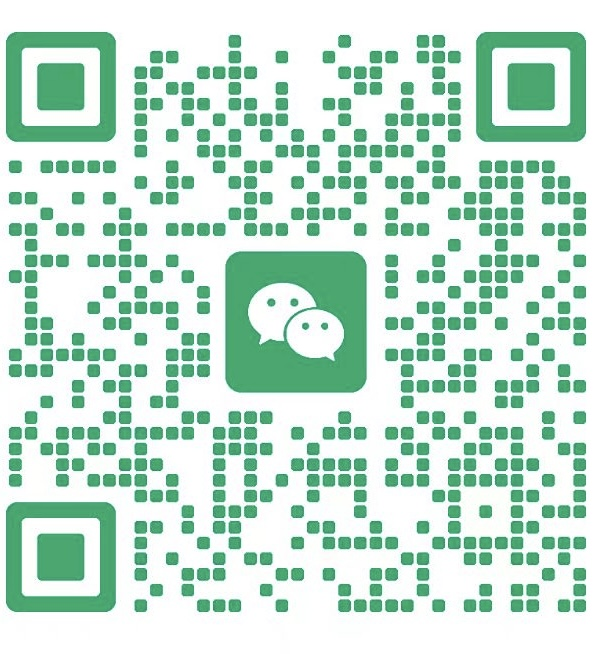
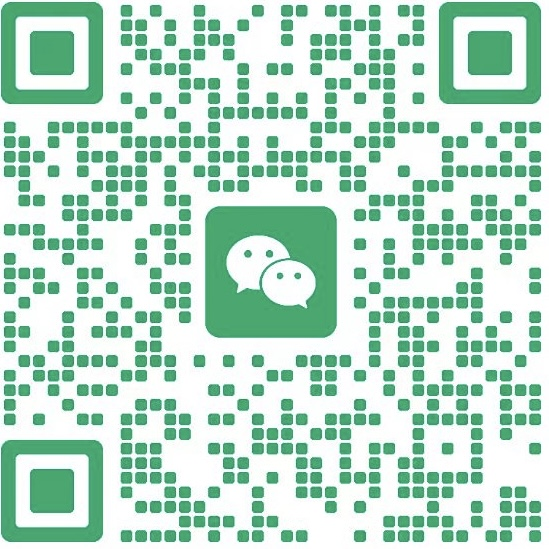
fix: 主站微信号改为ysl144788+二维码更新

diff --git a/index.html b/index.html
@@ -2013,7 +2013,7 @@ if (statsSection) {
       <div id="wechat-qr-popup">
         <p style="margin:0 0 8px;font-size:14px;font-weight:600;color:#333;">微信咨询</p>
         <img src="/wechat_qr_v2.png" alt="微信二维码" style="width:168px;height:168px;border-radius:8px;display:block;margin:0 auto;" />
-        <p style="margin:8px 0 0;font-size:12px;color:#666;">微信号：GdHz110521</p>
+        <p style="margin:8px 0 0;font-size:12px;color:#666;">微信号：ysl144788</p>
       </div>
     </div>
     <script>
